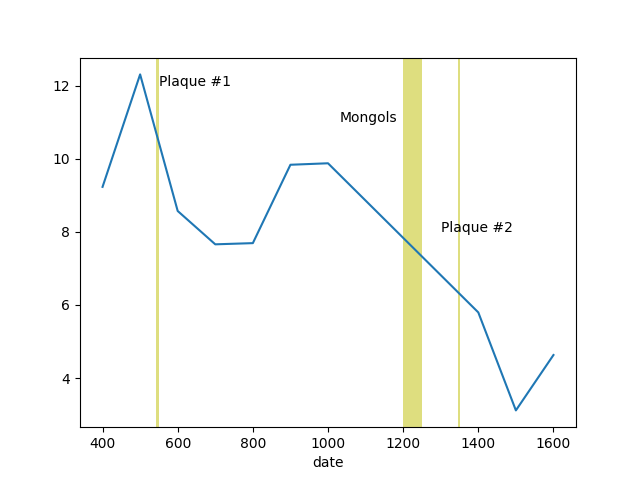
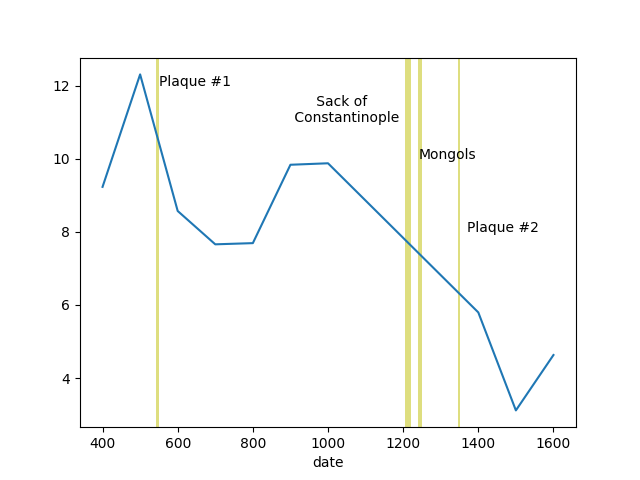
-

Changed region(s): [[0.4688, 0.125, 0.75, 0.9062], [0.6875, 0.4688, 0.8438, 0.5]]

diff --git a/en/2020/04/asia-minor-population.md b/en/2020/04/asia-minor-population.md
@@ -35,11 +35,13 @@ df3['pop_scaled'] = (800000.0 / df3['area']) * df3['pop'] / 1e6
 df4 = df3.set_index('date')
 df4['pop_scaled'].plot()
 plt.axvspan(541, 549, color='y', alpha=0.5, lw=0)
-plt.axvspan(1200, 1250, color='y', alpha=0.5, lw=0)
+plt.axvspan(1204, 1220, color='y', alpha=0.5, lw=0)
+plt.axvspan(1240, 1250, color='y', alpha=0.5, lw=0)
 plt.axvspan(1347, 1351, color='y', alpha=0.5, lw=0)
 plt.text(550,12,'Plaque #1')
-plt.text(1030,11,'Mongols')
-plt.text(1300,8,'Plaque #2')
+plt.text(900,11,'      Sack of \n Constantinople')
+plt.text(1240,10,'Mongols')
+plt.text(1370,8,'Plaque #2')
 plt.savefig('asiaminor.png')
 ```
 
@@ -52,7 +54,8 @@ not to battle (unlike Mongols later, who did). Once governance
 structures formed, around them, including them, they would have
 battled with Byzantium and also with eachother causing pop decreases,
 but the real killes were the plaques, and later the Mongols who beat
-the gov of the time, the Seljuks.
+the gov of the time, the Seljuks. On the Byzantine side the capital
+city was sacked by Crusaders in 1204.
 
 As an alternative source, data from *Demography, Part 1* by Vinogradov is also below.
 
